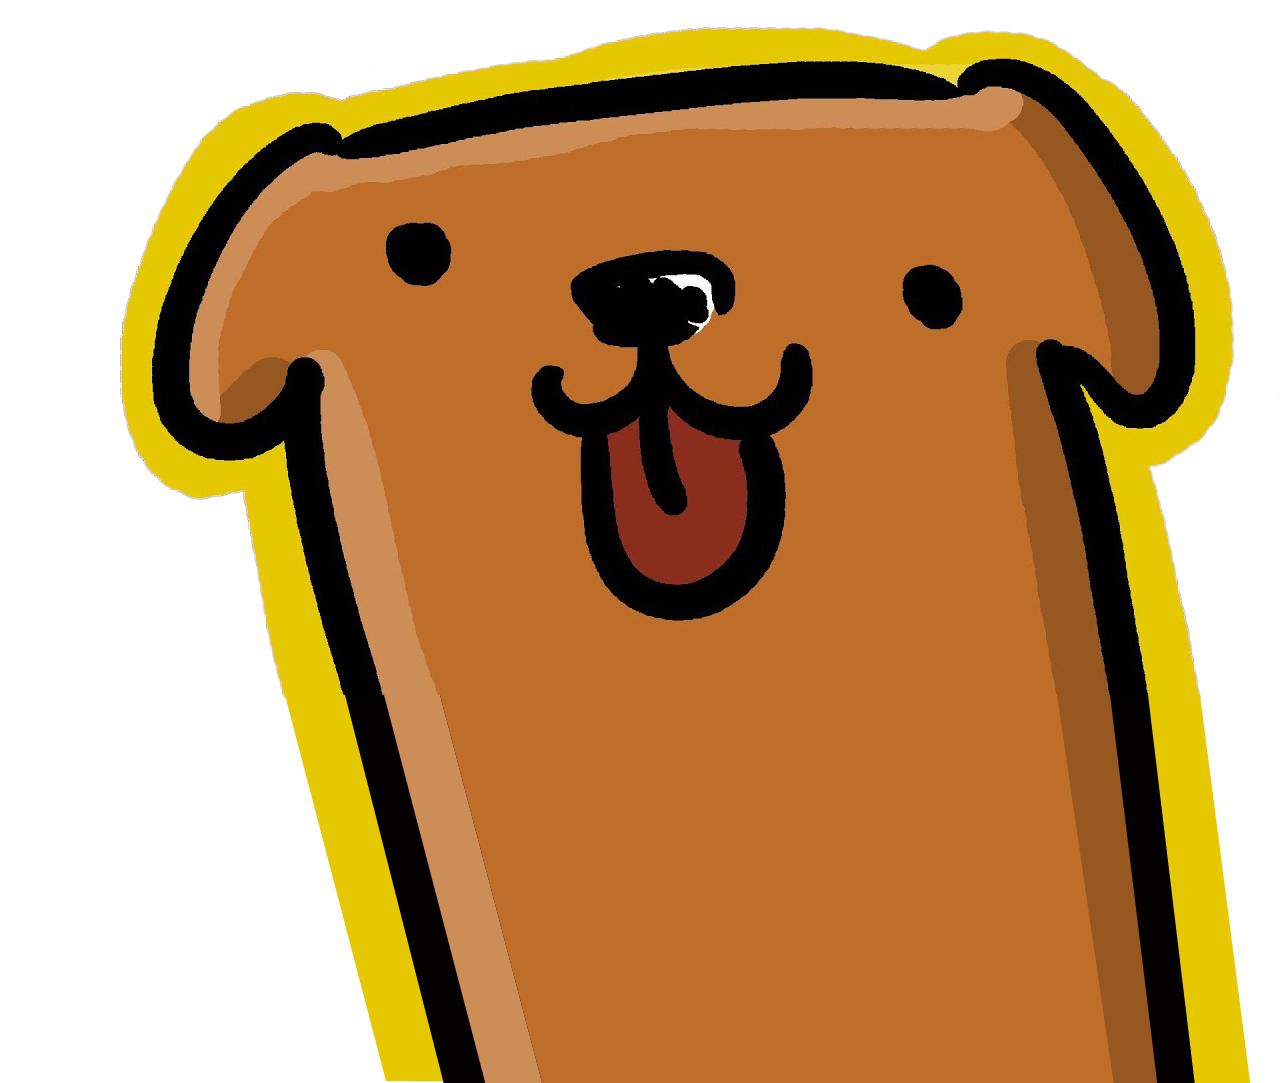
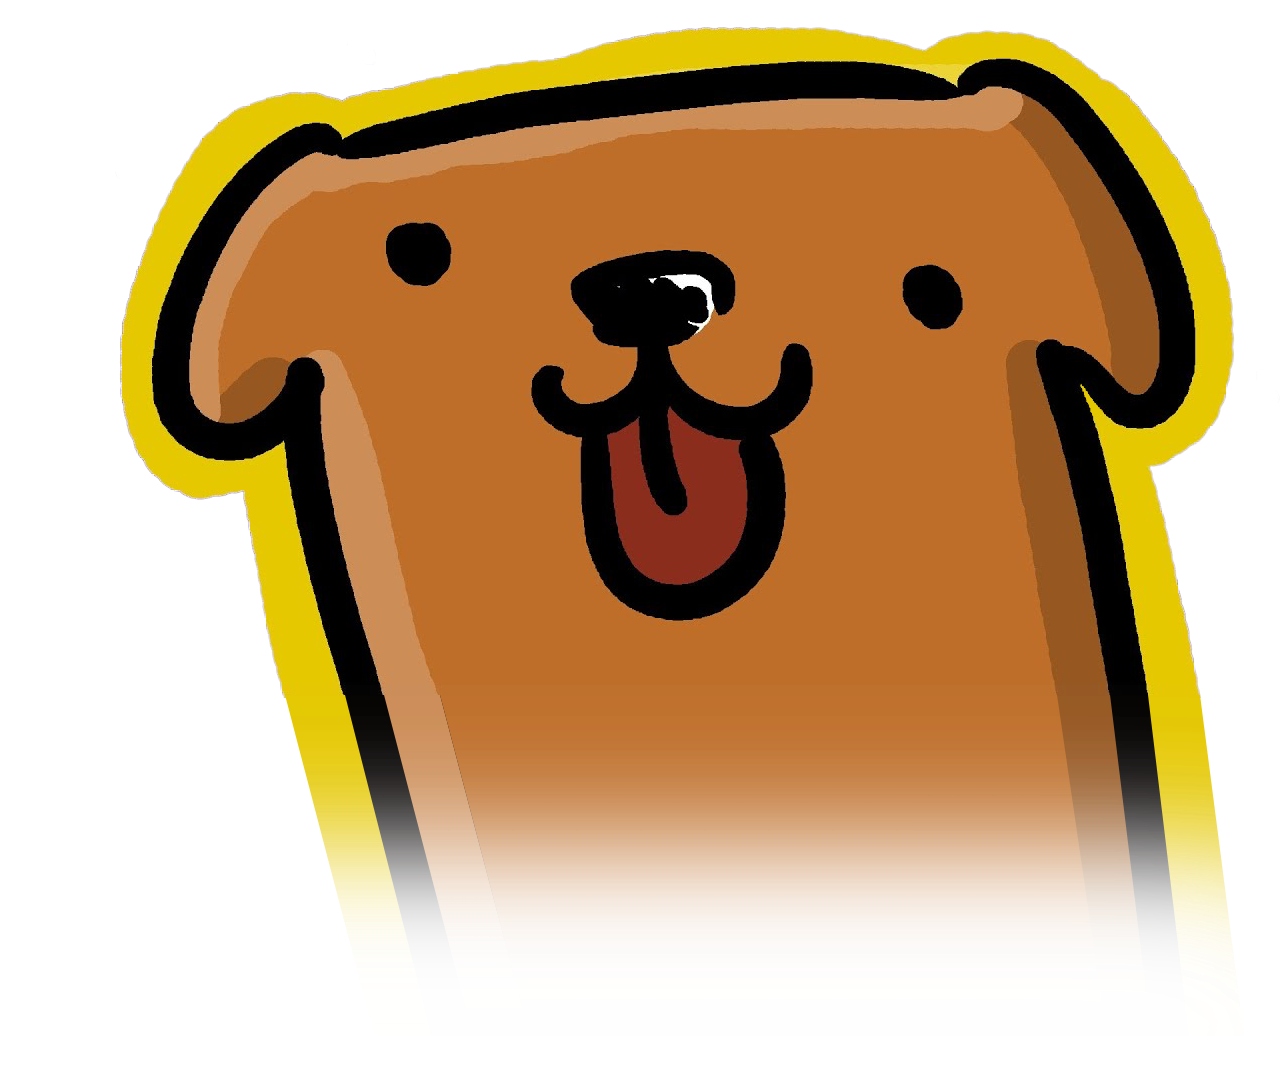
Use faded magic dog on white background

Changed region(s): [[0.2188, 0.7008, 1.0, 1.0]]

diff --git a/styles.css b/styles.css
@@ -4,8 +4,6 @@
 
 :root {
   --type-size: 72px;
-  --dog-body-color: #bd702b;
-  --dog-outline-color: #f0d400;
   --ios-bottom-bleed: max(32px, env(safe-area-inset-bottom));
   --safari-top-bleed: 0px;
   --safari-bottom-bleed: 0px;
@@ -396,22 +394,11 @@ body {
     min-height: calc(100dvh + var(--safari-scroll-offset) + var(--safari-bottom-bleed));
   }
 
-  html,
-  body {
-    background-color: var(--dog-body-color);
-  }
-
   body::after {
     display: block;
     height: var(--safari-bottom-bleed);
     content: "";
-    background:
-      linear-gradient(
-        180deg,
-        #ffffff 0 8px,
-        var(--dog-outline-color) 8px 34px,
-        var(--dog-body-color) 34px 100%
-      );
+    background: #ffffff;
   }
 
   .page {
@@ -444,6 +431,7 @@ body {
     position: absolute;
     right: 50%;
     bottom: calc(-1 * var(--safari-bottom-bleed));
+    z-index: 20;
     width: min(98vw, 500px);
     max-height: none;
     transform: translate(50%, 105%) rotate(-2deg);

diff --git a/index.html b/index.html
@@ -14,16 +14,16 @@
     <meta http-equiv="Pragma" content="no-cache">
     <meta http-equiv="Expires" content="0">
     <title>FlyingV</title>
-    <link rel="manifest" href="manifest.webmanifest?v=20260614-1040">
-    <link rel="apple-touch-icon" href="assets/canemagico.png?v=20260614-1040">
-    <link rel="icon" href="assets/favicon.svg?v=20260614-1040" type="image/svg+xml">
-    <link rel="stylesheet" href="styles.css?v=20260614-1040">
+    <link rel="manifest" href="manifest.webmanifest?v=20260614-1052">
+    <link rel="apple-touch-icon" href="assets/canemagico.png?v=20260614-1052">
+    <link rel="icon" href="assets/favicon.svg?v=20260614-1052" type="image/svg+xml">
+    <link rel="stylesheet" href="styles.css?v=20260614-1052">
   </head>
   <body>
     <main class="page" aria-label="FlyingV countdown">
       <div class="countdown-list" id="countdown-list"></div>
     </main>
 
-    <script src="script.js?v=20260614-1040"></script>
+    <script src="script.js?v=20260614-1052"></script>
   </body>
 </html>

diff --git a/script.js b/script.js
@@ -103,7 +103,7 @@ const MAGIC_DOG_NAME_BY_PERSON = {
   Rocco: "Dejavio",
 };
 const MAGIC_DOG_CHANCE = 40;
-const ASSET_VERSION = "20260614-1040";
+const ASSET_VERSION = "20260614-1052";
 const OVERFLOW_ALIAS = "Puttanaaaaaaaaaaaaaaaaaa";
 const OVERFLOW_ALIAS_CORE = "Puttana";
 

diff --git a/sw.js b/sw.js
@@ -1,4 +1,4 @@
-const CACHE_VERSION = "20260614-1040";
+const CACHE_VERSION = "20260614-1052";
 
 self.addEventListener("install", (event) => {
   event.waitUntil(self.skipWaiting());